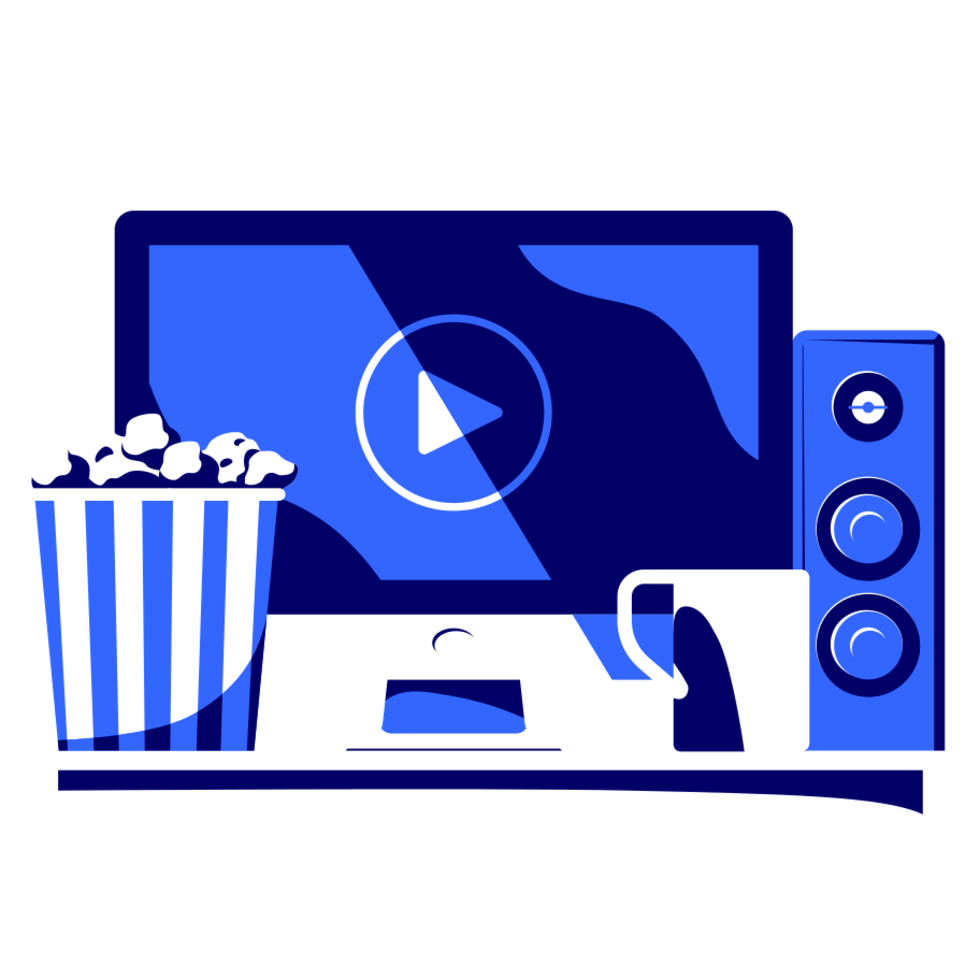
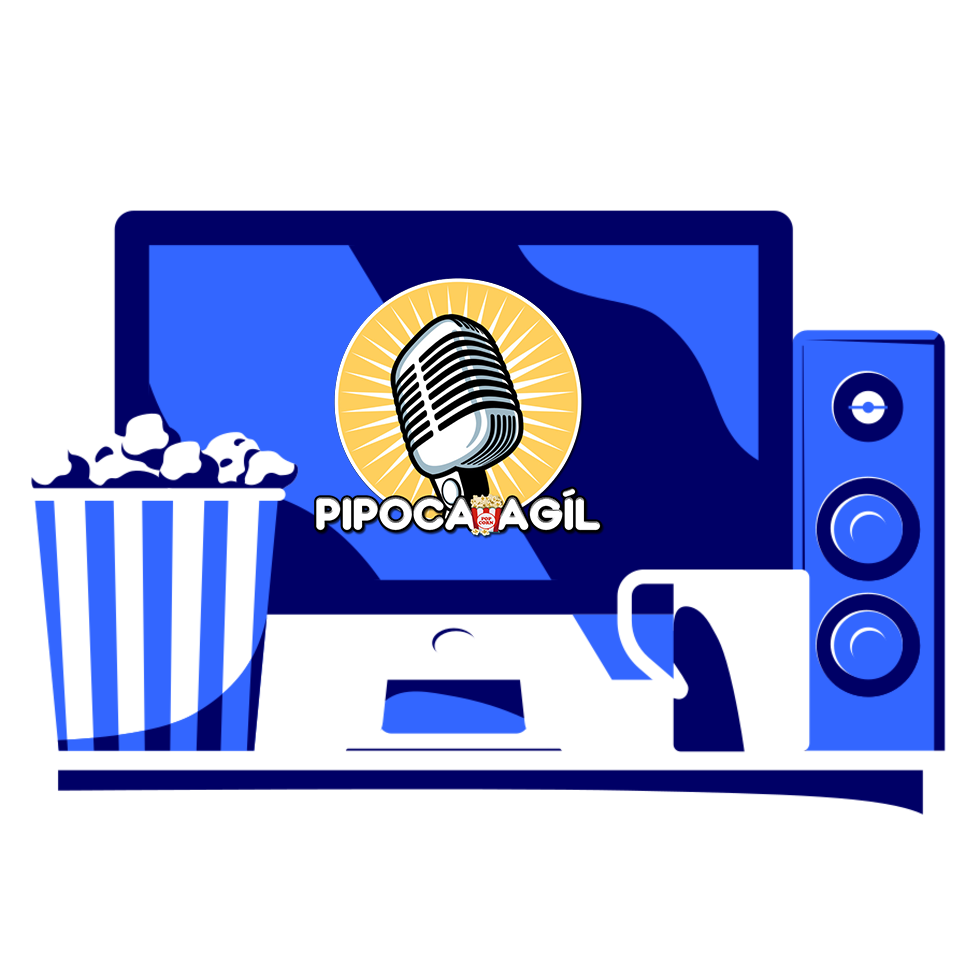
Iniciando o HTML

Changed region(s): [[0.3061, 0.2755, 0.6122, 0.551]]

diff --git a/custom.html b/custom.html
@@ -11,7 +11,57 @@
   <title>PIPOCA AGIL</title>
 </head>
 <body>
-  
+  <div id="container">
+    <div class="form-image">
+      <img src="customer_registration/assets/img/pc-pag-cadastro.png" alt="logo pagina de cadastro">
+    </div>
+    <div class="form">
+      <form action="#">
+        <div class="form-header">
+          <div class="title">
+            <h1>FAÇA SEU CADASTRO</h1>
+          </div>
+          <div class="login-button">
+            <button><a href="#">Finalizar o cadastro</a></button>
+          </div>
+        </div>
+
+        <div class="input-group">
+          <div class="input-box">
+            <label for="nome-completo">Nome Completo</label>
+            <input id="nome-completo" type="text" name="nome-completo" placeholder="Digite seu nome completo" required>
+          </div>
+
+          <div class="input-box">
+            <label for="e-mail">e-mail</label>
+            <input id="e-mail" type="email" name="e-mail" placeholder="Digite aqui o seu e-mail" required>
+          </div>
+
+          <div class="input-box">
+            <label for="data-nascimento">Data de nascimento</label>
+            <input id="data-nascimento" type="date" name="data-nascimento" placeholder="Digite aqui o sua data de nascimento" required>
+          </div>
+
+          <div class="input-box">
+            <label for="senha">Senha</label>
+            <input id="senha" type="password" name="senha" placeholder="Digite aqui a sua senha" required>
+          </div>
+
+          <div class="input-box">
+            <label for="confirme-senha">Confirmar senha</label>
+            <input id="confirme-senha" type="password" name="data-nascimento" placeholder="Confirme sua senha" required>
+          </div>
+        </div>
+
+        <div class="confirm">
+          <label for="confirm">Eu li e concordo com os termos de uso</label>
+          <input type="radio" id="confimacao" name="confirm">
+        </div>
+      </form>
+
+      
+    </div>
+  </div>
 
 
 

diff --git a/customer_registration/assets/css/style.css b/customer_registration/assets/css/style.css
@@ -1,3 +1,29 @@
 body {
-  background-color: linear-gradient(red, yellow);
+  width: 100%;
+  height: 100vh;
+  display: flex;
+  justify-content: center;
+  align-items: center;
+  background: #3D3E44;
+}
+
+#container {
+  width: 80%;
+  height: 80vh;
+  display: flex;
+
+}
+
+.form-image {
+  width: 50%;
+  display: flex;
+  justify-content: center;
+  align-items: center;
+  background-color: #3d13e7;
+  padding: 1rem;
+}
+
+.form-image img {
+  width: 980px;
+  height: 980px;
 }

diff --git a/customer_registration/assets/css/resets.css b/customer_registration/assets/css/resets.css
@@ -1,13 +1,10 @@
+@import url('https://fonts.googleapis.com/css2?family=Inter:wght@100;200;300;400;500;600;700;800;900&display=swap');
+
 * {
   margin: 0;
   padding: 0;
   box-sizing: border-box;
+  font-family: 'Inter', sans-serif;
+  color: #ffffff;
 }
 
-body {
-  position: fixed;
-  top: 0;
-  width: 100%;
-  height: 100%;
-  overflow: hidden;
-}
